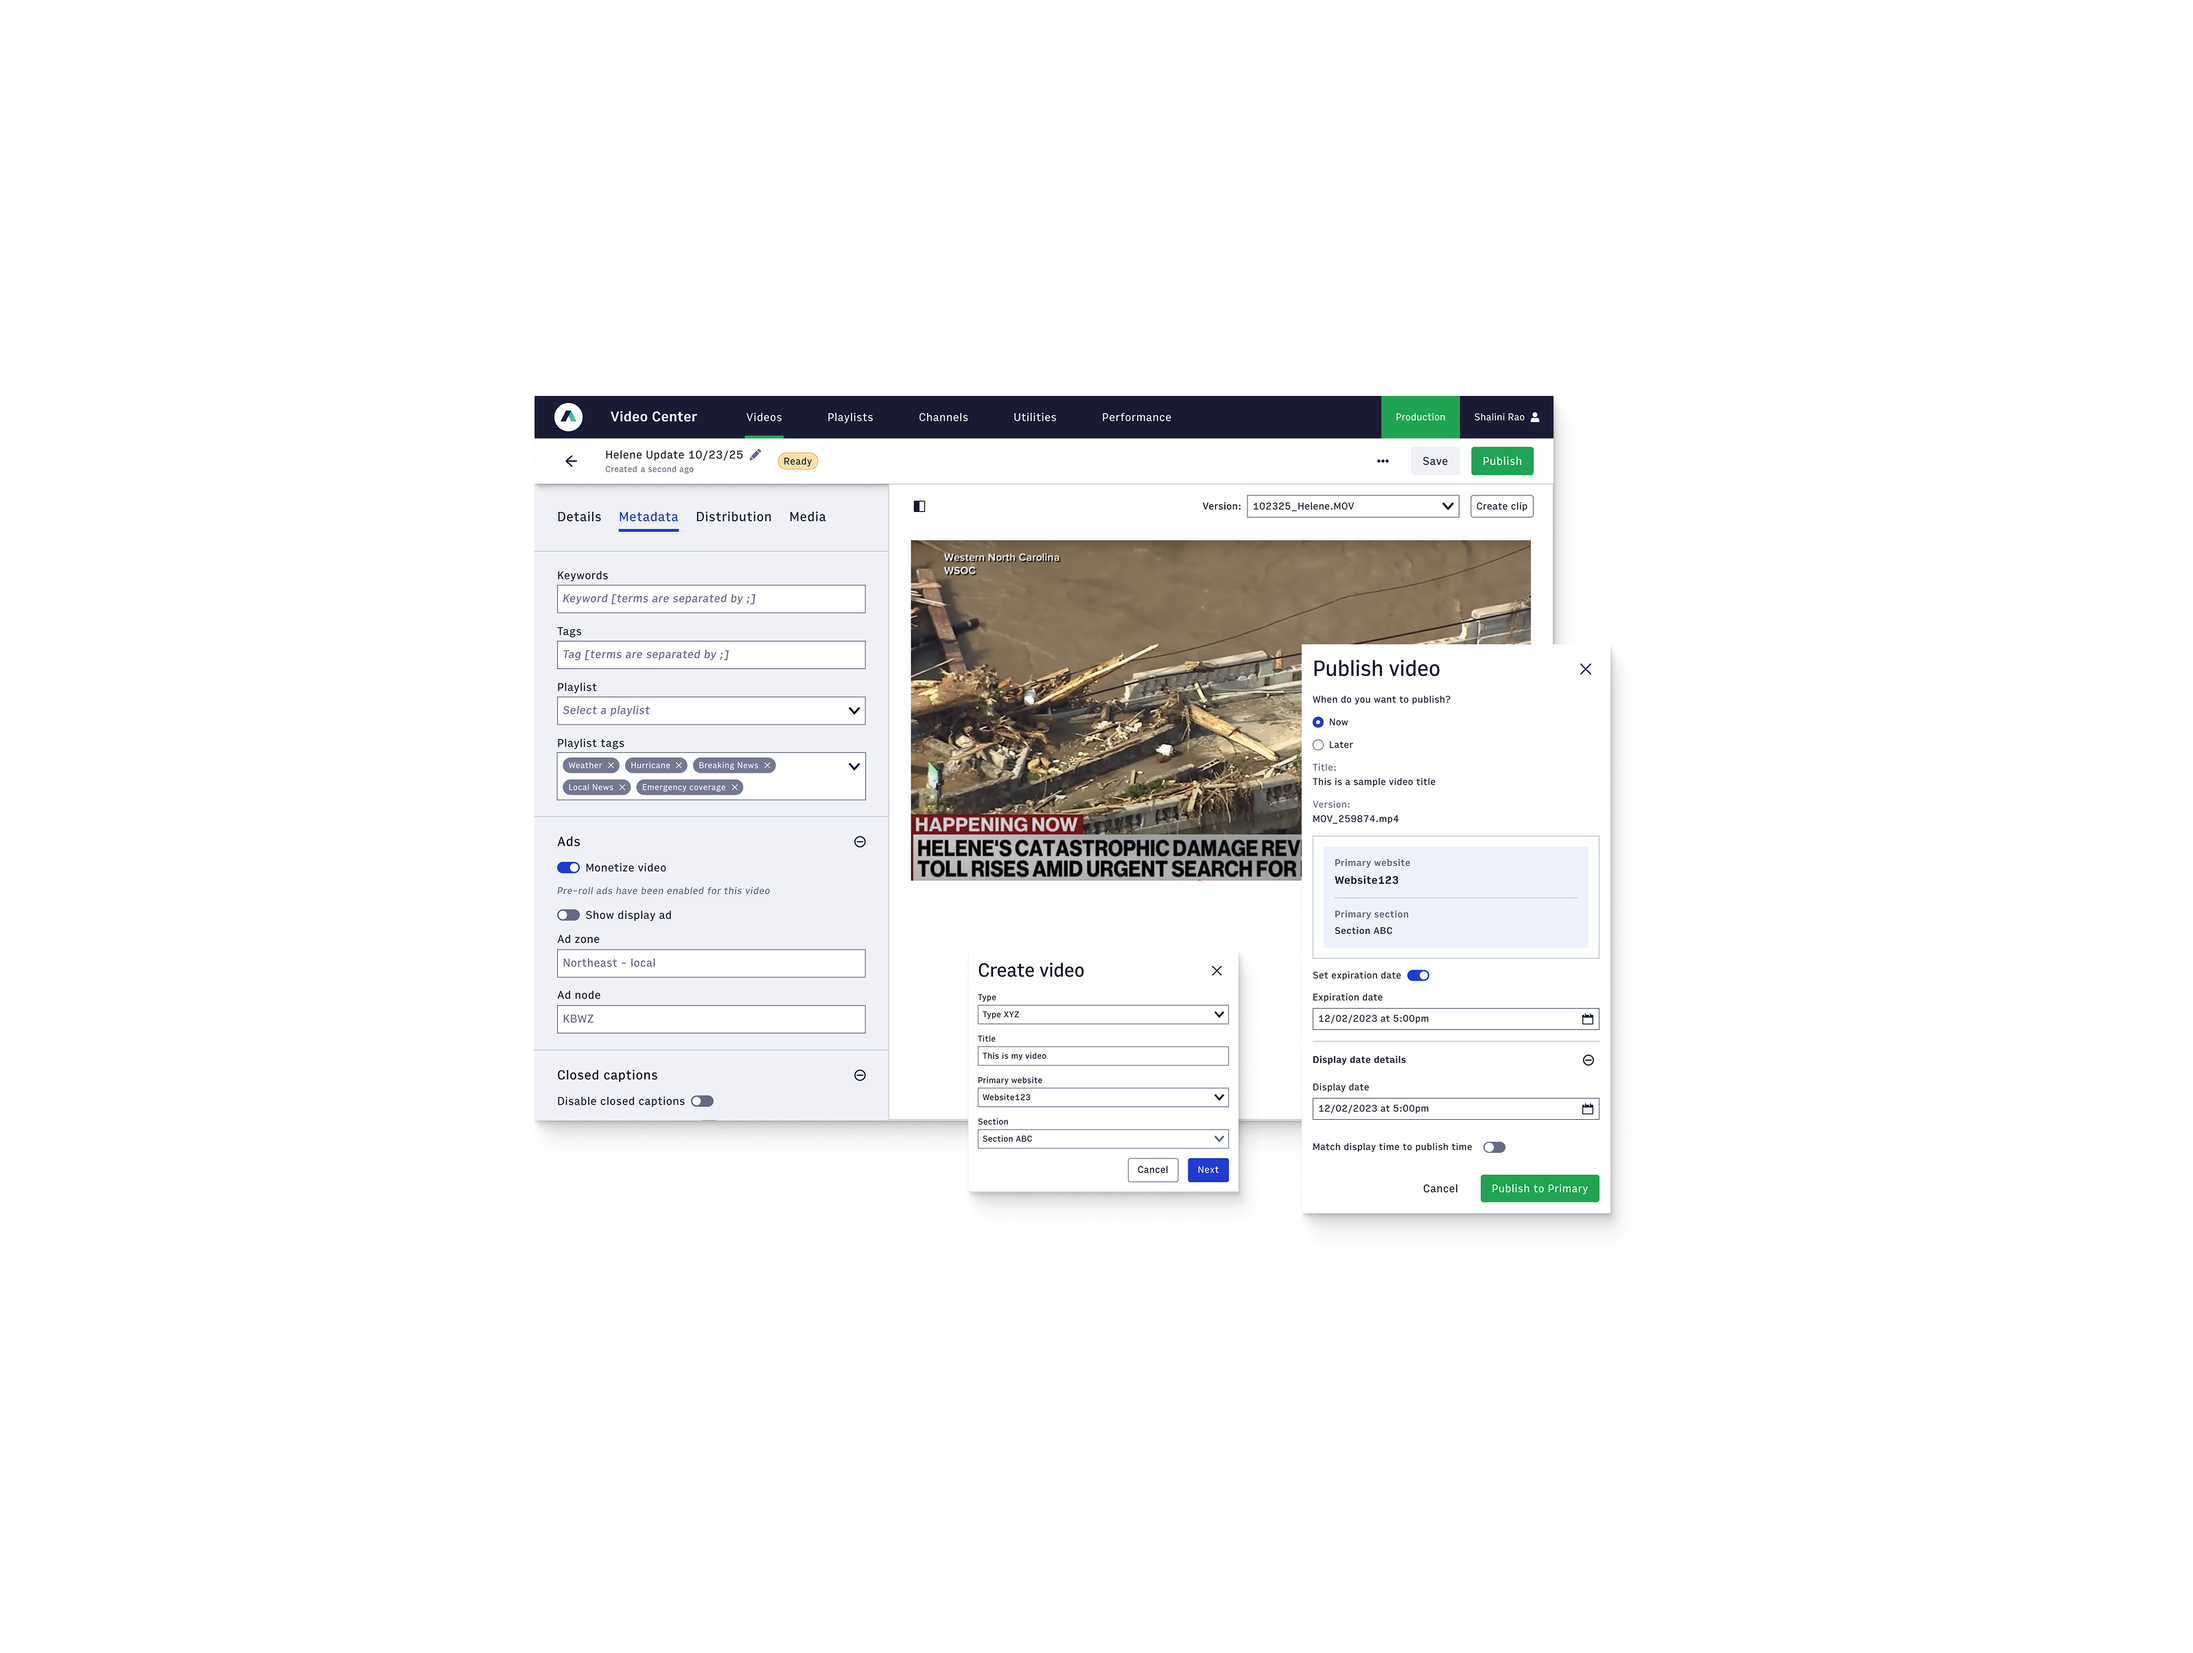
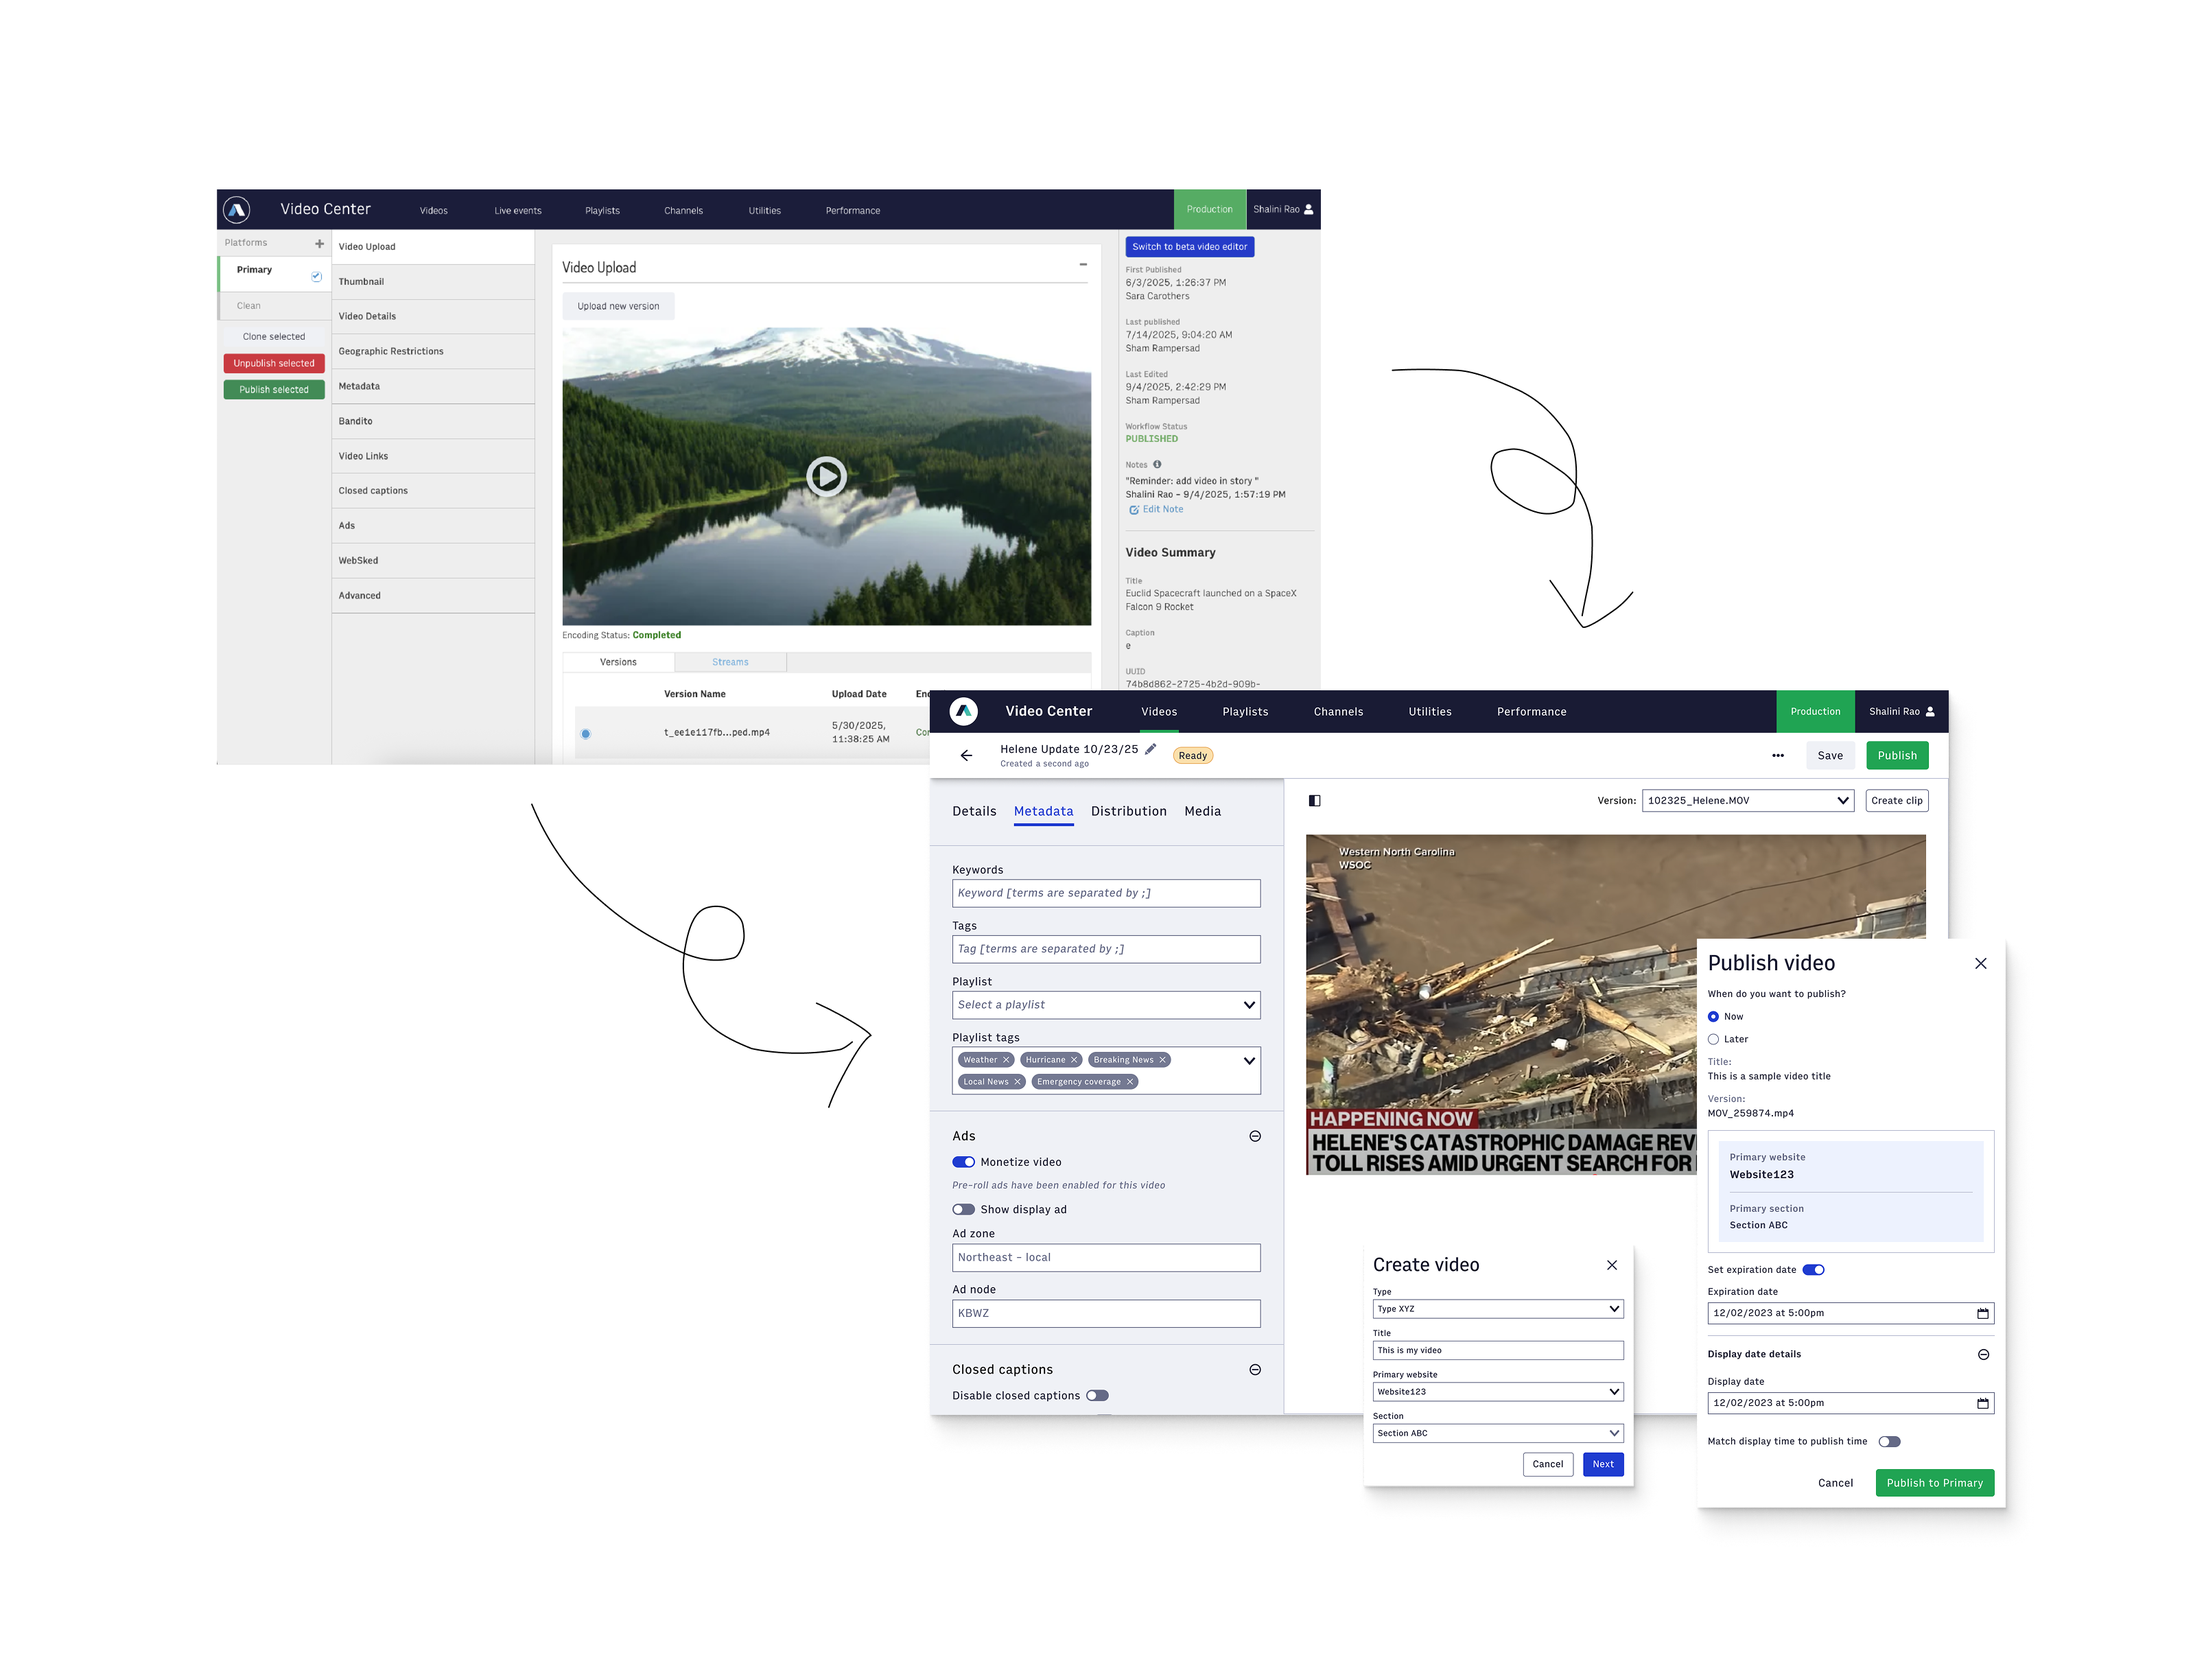
small copy and image edits

diff --git a/index.html b/index.html
@@ -325,19 +325,10 @@
     width: 100%;
     height: 100%;
     object-fit: cover;
-    transition: opacity 0.4s ease;
+    transition: transform 0.6s cubic-bezier(.25,.46,.45,.94);
   }
-  .hover-swap .swap-gif {
-    position: relative;
-    width: auto;
-    height: auto;
-    max-width: 100%;
-    max-height: 100%;
-    opacity: 0;
-    transition: opacity 0.4s ease;
-  }
-  .project-banner:hover .hover-swap .swap-static { opacity: 0; }
-  .project-banner:hover .hover-swap .swap-gif    { opacity: 1; }
+  .hover-swap .swap-gif { display: none; }
+  .project-banner:hover .hover-swap .swap-static { transform: scale(1.04); }
 
   /* Contact */
   #contact { padding:80px; border-top:1px solid var(--border); }
@@ -629,7 +620,7 @@
         <div class="project-banner-title">I prototyped a net-new audio product in Figma Make and drove the product from competitive analysis to shipped multi-phase roadmap</div>
         <div class="project-banner-meta">
           <div class="project-meta-item"><label>Objective</label><span>Expand platform value for audio distribution</span></div>
-          <div class="project-meta-item"><label>Result</label><span>New audio asset type offering launched</span></div>
+          <div class="project-meta-item"><label>Result</label><span>New audio asset type offering launched, 259 daily users across 30 customer organizations</span></div>
           <div class="project-meta-item"><label>My Role</label><span> Lead Product Designer, Worked with 1 PM and 2 engineers</span></div>
         </div>
         <div class="project-tags"><span class="tag">AI Prototyping</span><span class="tag">0→1 Product</span><span class="tag">Market Gap</span></div>
@@ -647,7 +638,7 @@
         <div class="project-banner-title">We designed an AI assistant from zero, across an entire platform.</div>
         <div class="project-banner-meta">
           <div class="project-meta-item"><label>Objective</label><span>Turn an open-ended AI mandate into a shipped product</span></div>
-          <div class="project-meta-item"><label>Result</label><span>Native AI assistant panel shipped across Arc XP</span></div>
+          <div class="project-meta-item"><label>Result</label><span>Native AI assistant panel shipped across Arc XP, reached 85% acceptance rate across 184k suggestions over six months and 365k ARR</span></div>
           <div class="project-meta-item"><label>My Role</label><span> Product Designer, Worked with tiger team of 3 designers, 2 PMs, and 5 engineers</span></div>
         </div>
         <div class="project-tags"><span class="tag">AI Design</span><span class="tag">User Research</span><span class="tag">Design Systems</span></div>
@@ -830,7 +821,7 @@
       <h1 class="project-title">Prototyping a net-new audio product in Figma Make, from competitive analysis to shipped multi-phase roadmap</h1>
       <div class="project-callout">
         <div class="callout-item"><label>Objective</label><p>Increase platform's value proposition for accessibility, reader engagement, and cross-platform distribution by offering audio asset management</p></div>
-        <div class="callout-item"><label>Result</label><p>Expanded asset type offering to include audio</p></div>
+        <div class="callout-item"><label>Result</label><p>Expanded asset type offering to include audio, 259 daily users across 30 customer organizations</p></div>
         <div class="callout-item"><label>My Role</label><p>Product Designer</p></div>
         <div class="callout-item"><label>Tags</label><div class="callout-tags"><span class="tag">AI Prototyping</span><span class="tag">0→1 Product</span><span class="tag">Content Strategy</span></div></div>
       </div>
@@ -897,7 +888,7 @@
       <h1 class="project-title">Designing an AI assistant from zero, across an entire platform.</h1>
       <div class="project-callout">
         <div class="callout-item"><label>Objective</label><p>Turn an open-ended mandate ("add AI, figure out what that means") into a shipped product feature that saves journalists time without taking control away from them</p></div>
-        <div class="callout-item"><label>Result</label><p>A native AI assistant panel, shipped in Composer and designed to extend across Arc XP's entire product suite, surfacing metadata updates, style guide feedback, and content opportunities as reviewable, reversible suggestions</p></div>
+        <div class="callout-item"><label>Result</label><p>A native AI assistant panel, shipped in Composer and designed to extend across Arc XP's entire product suite, surfacing metadata updates, style guide feedback, and content opportunities as reviewable, reversible suggestions. Reached 85% acceptance rate across 184k suggestions over six months and 365k ARR.</p></div>
         <div class="callout-item"><label>My Role</label><p>Product Designer, Worked with tiger team of 3 designers, 2 PMs, and 5 engineers</p></div>
         <div class="callout-item"><label>Tags</label><div class="callout-tags"><span class="tag">AI Design</span><span class="tag">User Research</span><span class="tag">Design Systems</span></div></div>
       </div>
